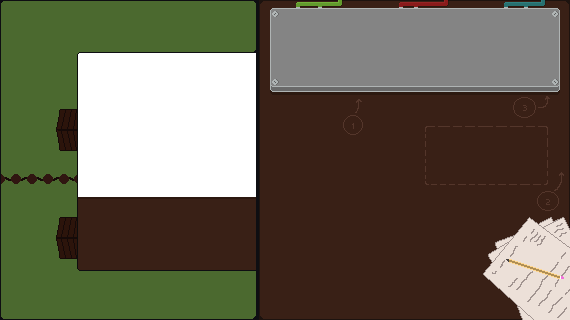
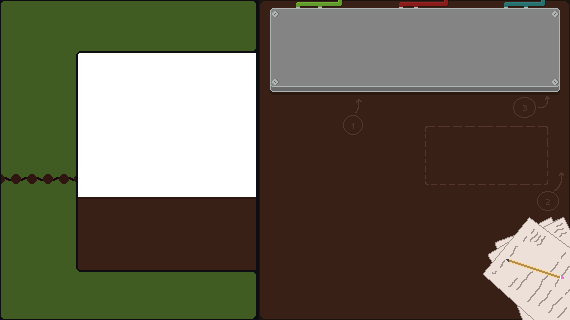
small changes
small changes to assets and a minor adjustment to some code

Changed region(s): [[0.0895, 0.6562, 0.1491, 0.8125], [0.0895, 0.3438, 0.1491, 0.4688], [0.4175, 0.8438, 0.4474, 0.875]]

diff --git a/src/PlayingState.cpp b/src/PlayingState.cpp
@@ -2,6 +2,7 @@
 #include "Game.h"
 #include "UImanager.h"
 #include <iostream>
+#include <SFML/Graphics.hpp>
 #include <cstdlib>
 #include <ctime>
 
@@ -110,19 +111,19 @@ void PlayingState::update(float dt)
 
 	currentDay = game->getCurrentDay();
 	calendarText.setString(game->daysOfWeek[currentDay]);
-	
-		
-	
+
+
+
 
 	calendarText.setString(daysOfWeek[currentDay]);
 
-	
-		
-	
+
+
+
 
 	calendarText.setString(daysOfWeek[game->getCurrentDay()]);
 
-	
+
 
 	calendarText.setPosition(UI->calendar.sprite.getPosition().x + 13, UI->calendar.sprite.getPosition().y + 3);
 
@@ -197,6 +198,7 @@ void PlayingState::update(float dt)
 		{
 
 			passport.getImageFromPath("../Data/assets/crossing/UI/closed passport.png");
+			passport.sprite.scale(0.75, 0.75);
 			passportOpened = false;
 		}
 	}
@@ -221,12 +223,12 @@ void PlayingState::update(float dt)
 			}
 
 
-				selectCritter();
-				critterMoveLeft = false;
+			selectCritter();
+			critterMoveLeft = false;
 
-			
-				
-			
+
+
+
 
 		}
 
@@ -239,7 +241,7 @@ void PlayingState::update(float dt)
 	reasonPPtext.setPosition(passport.sprite.getPosition().x + 5, passport.sprite.getPosition().y + 30);
 	dayPPtext.setPosition(passport.sprite.getPosition().x + 5, passport.sprite.getPosition().y + 45);
 
-	
+
 
 
 	float distanceX = UI->stamp.sprite.getPosition().x - passport.sprite.getPosition().x;
@@ -294,11 +296,11 @@ void PlayingState::update(float dt)
 		}
 	}
 
-	
 
 
 
-	Game mouseClicked(sf::RenderWindow& window, sf::Event event);
+
+	Game mouseClicked(sf::RenderWindow & window, sf::Event event);
 
 
 
@@ -319,7 +321,7 @@ void PlayingState::render(sf::RenderWindow& window)
 
 
 	// office back shows behind the main game backgroudnd
-	UI-> officeBack.render(window);
+	UI->officeBack.render(window);
 
 	critter.render(window);
 
@@ -390,7 +392,7 @@ int PlayingState::selectCritter() {
 
 	if (crittersSeen >= crittersPerDay && (critter.sprite.getPosition().x < 10))
 	{
-		
+
 	}
 
 	int chosenCritter = rand() % 5 + 1;

diff --git a/src/Game.h b/src/Game.h
@@ -33,7 +33,7 @@ public:
 	void render();
 
 	// Input handling
-	
+
 	void mousePressed(sf::Event event);
 	void mouseMoved(sf::Event event);
 	void mouseReleased(sf::Event event);
@@ -51,7 +51,7 @@ public:
 	std::string* getFirstNamesM() { return firstNamesM; }
 	std::string* getFirstNamesF() { return firstNamesF; }
 	std::string* getLastNames() { return lastNames; }
-	
+
 	std::string* getReasons() { return reasons; }
 	std::string* getReasonsShort() { return reasonsShort; }
 
@@ -72,7 +72,7 @@ public:
 	//
 
 	sf::Music backgroundMusic;
-	
+
 	std::string daysOfWeek[7] = { "Mon", "Tue", "Wed", "Thu", "Fri", "Sat", "Sun" };
 	int currentDay = 0;
 
@@ -82,17 +82,17 @@ public:
 private:
 
 	sf::Color textColor = sf::Color(55, 55, 55);
-	
+
 
 	void updateMenu(float dt);
-	
+
 	void renderMenu();
 	void renderDayEnd();
 
 	// Systems
-	UImanager* UI ;
-	PlayingState* playing ;
-	DayEndState* dayEnd ;
+	UImanager* UI;
+	PlayingState* playing;
+	DayEndState* dayEnd;
 	MenuState* menu;
 
 
@@ -100,23 +100,23 @@ private:
 	sf::Vector2f dragOffset;
 	bool passportDragged = false;
 
-	
+
 	sf::RenderWindow& window;
 	sf::Font font;
 
 
-	
-
-	
 
 
-	
+
+
+
+
 	const int crittersPerDay = 5;
-	
+
 	int dayScore = 0;
 
 	// Shared arrays
-	
+
 	std::string firstNamesM[3] = { "Fred",
 									"Eliot",
 									"Logan" };
